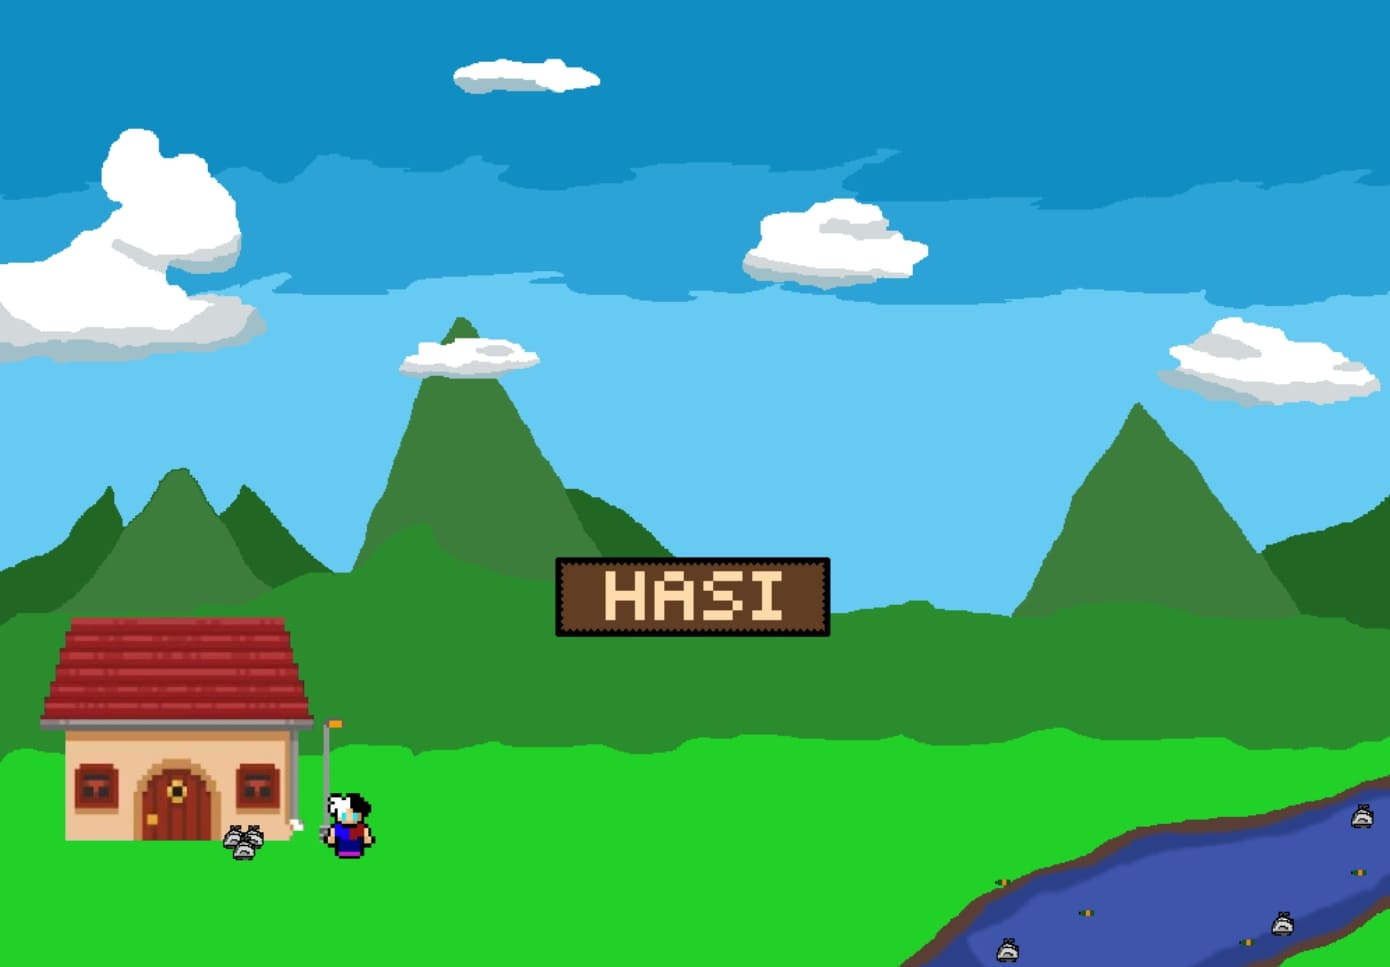
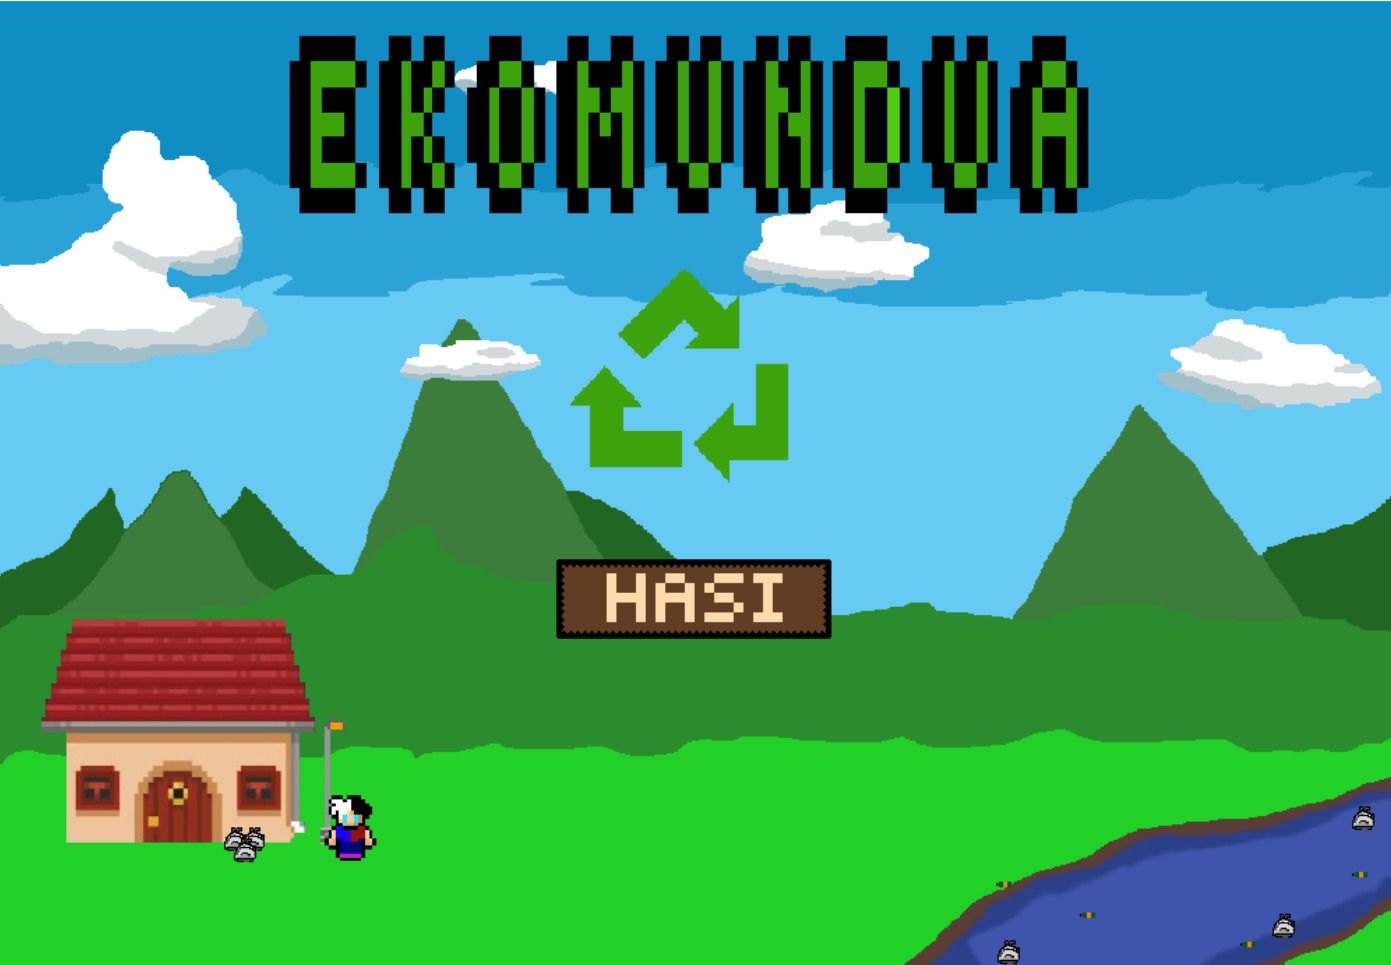
[ADD] images

diff --git a/_posts/laburpena.md b/_posts/laburpena.md
@@ -1,12 +1,12 @@
 ---
 title: "Deskribapena"
 excerpt: "Jokuaren azalpena"
-coverImage: "/assets/blog/dynamic-routing/menu.jpg"
+coverImage: "/assets/blog/dynamic-routing/ejemplo.jpg"
 author:
   name: Deskribapen zehatza
   picture: "/assets/blog/preview/pesca.jpg"
 ogImage:
-  url: "/assets/blog/dynamic-routing/menu.jpg"
+  url: "/assets/blog/dynamic-routing/ejemplo.jpg"
 ---
 
 
